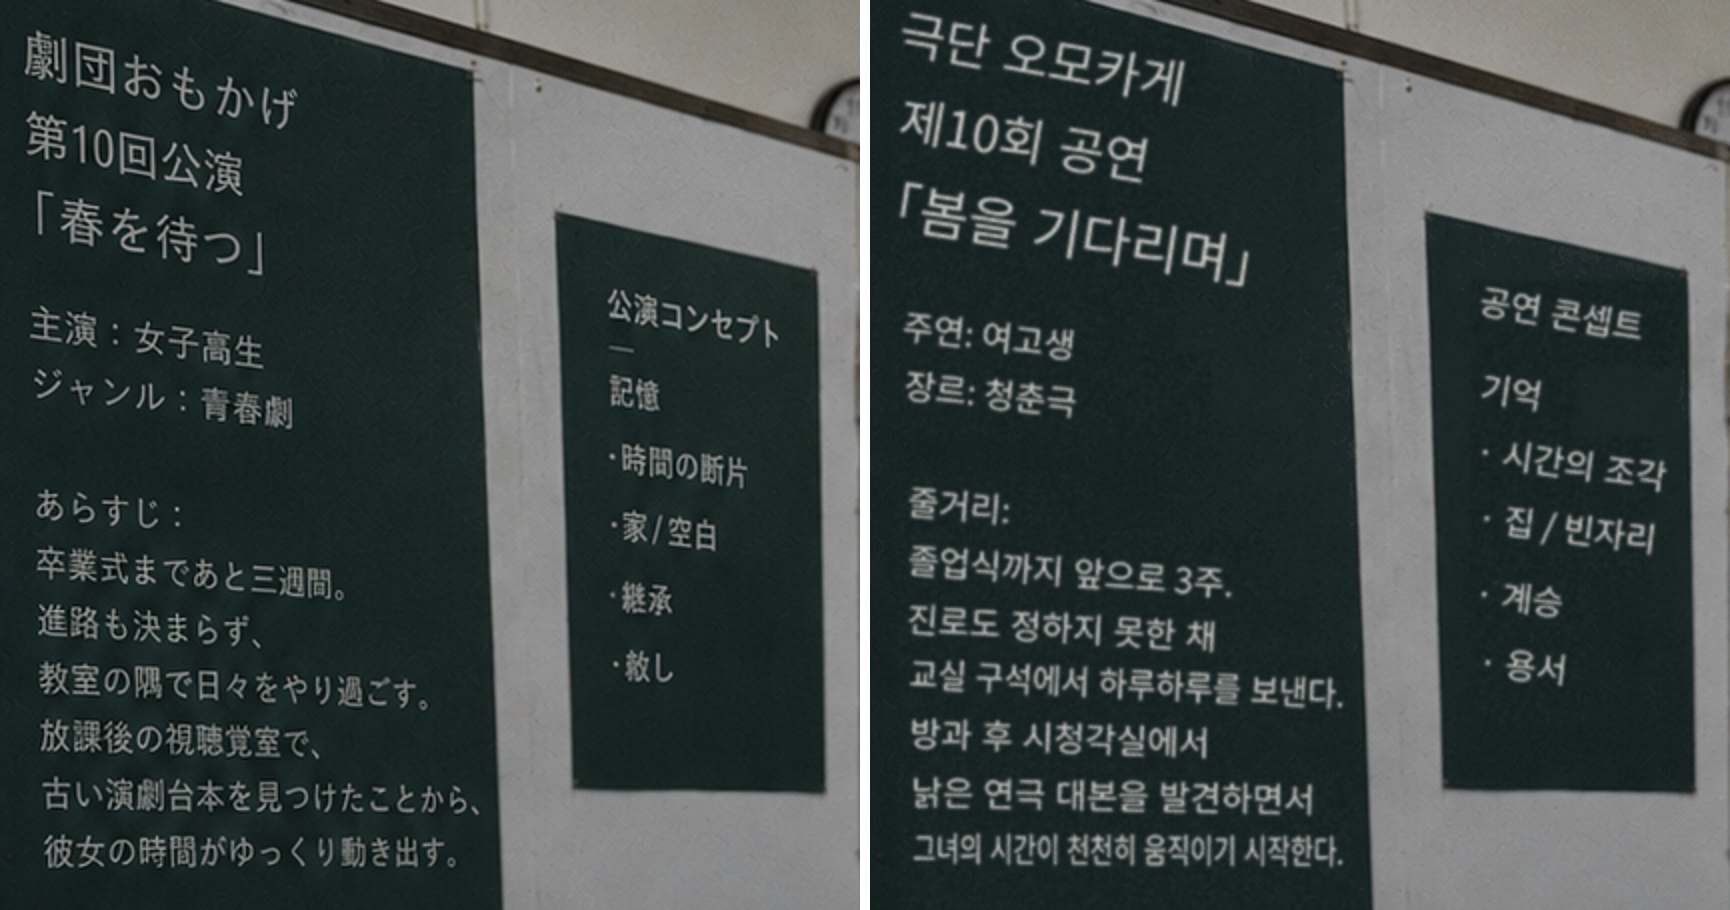
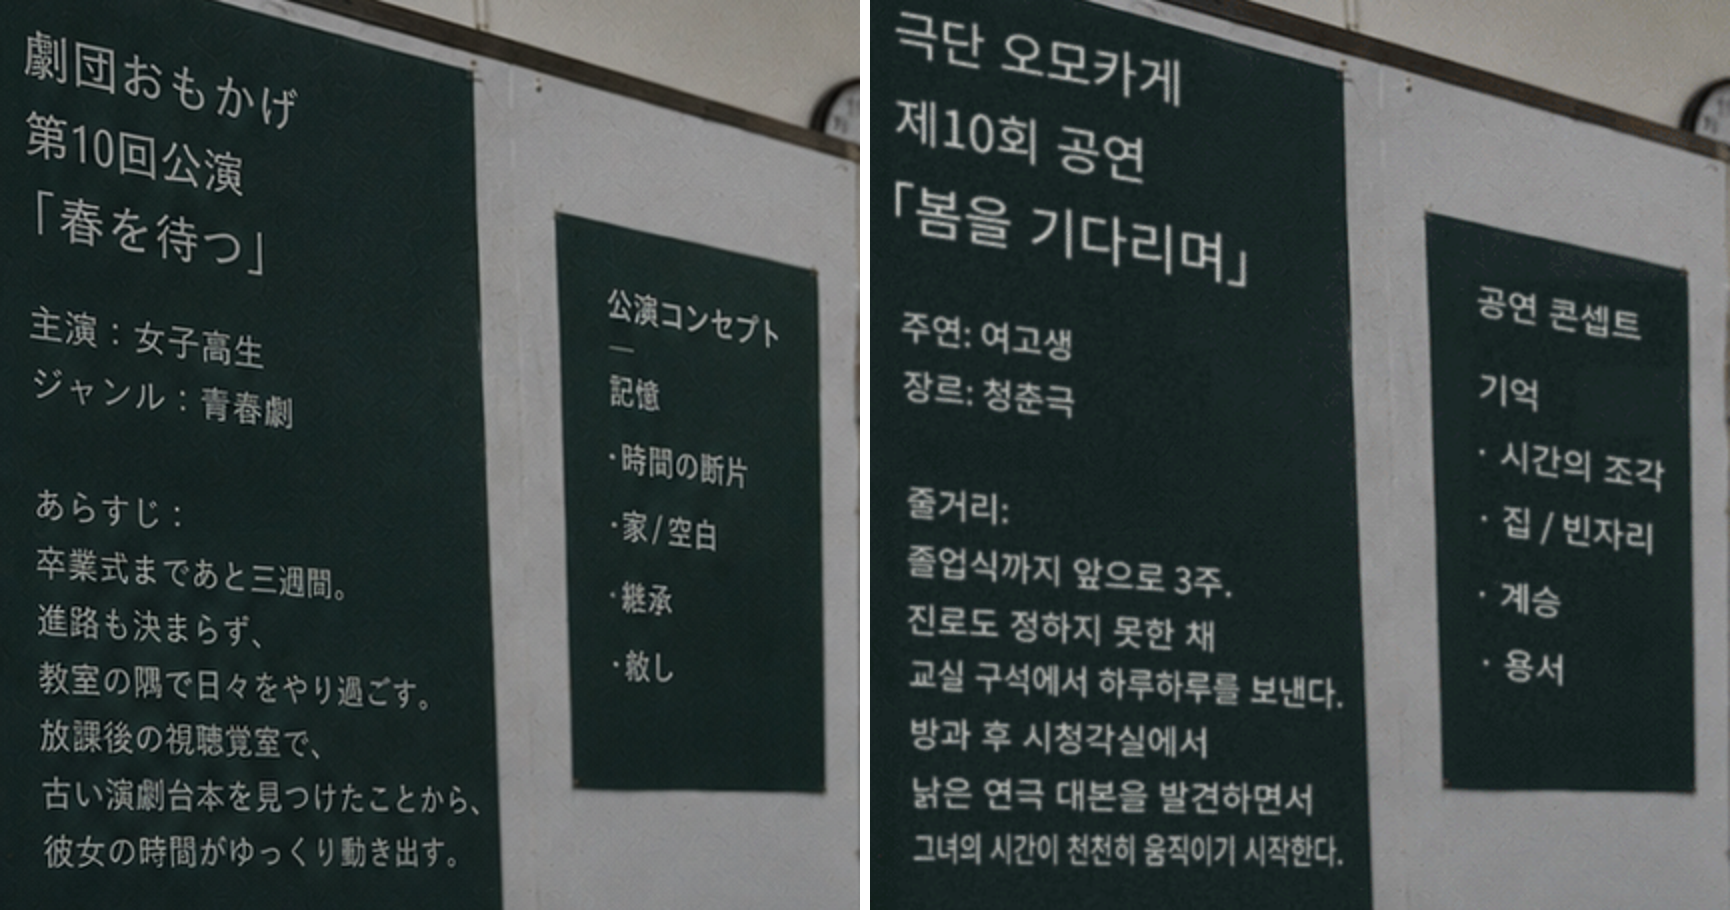
칠판 포스터 글자: 회전 대신 세로 전단(세로획은 똑바로, 줄만 원근대로 기울게)

diff --git a/tools/img_ko2_scripts/photo/ai_place.jsx b/tools/img_ko2_scripts/photo/ai_place.jsx
@@ -47,6 +47,7 @@ for (var i = 0; i < S.items.length; i++) {
   var ty = (-((bx[1] + bx[3]) / 2)) - ((b[1] + b[3]) / 2);
   tf.translate(tx, ty);
   if (it.rotate) tf.rotate(it.rotate, true, false, false, false, Transformation.CENTER);
+  if (it.shear) { var M = app.getIdentityMatrix(); M.mValueB = Math.tan(it.shear * Math.PI / 180); tf.transform(M, true, false, false, false, 1, Transformation.CENTER); }
   if (it.halo) {
     var hf = tf.duplicate(halo, ElementPlacement.PLACEATBEGINNING);
     var hc = hf.textRange.characterAttributes; hc.fillColor = rgb(it.halo.color); hc.strokeColor = rgb(it.halo.color); hc.strokeWeight = (it.sw || 0) + it.halo.width;
